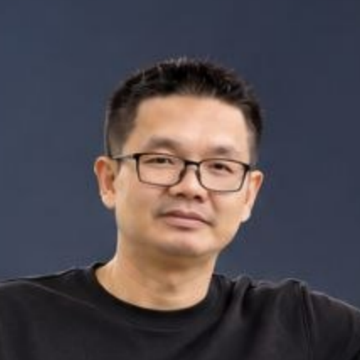
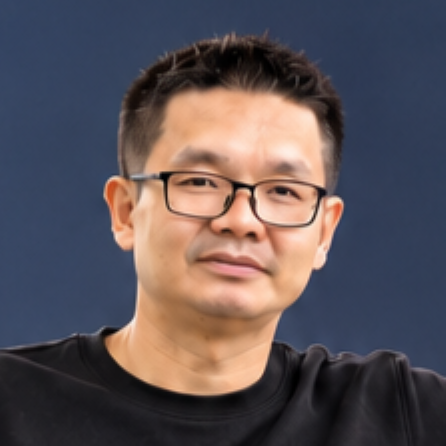
feat: update admin photo & streamline discovery to YouTube only (v2.2.0 build 104)

Changed region(s): [[0.1528, 0.0611, 1.0, 1.0], [0.7028, 0.8556, 0.825, 1.0], [0.0, 0.7639, 0.1528, 0.825]]

diff --git a/supabase/functions/social-food-discovery/index.ts b/supabase/functions/social-food-discovery/index.ts
@@ -1,6 +1,6 @@
 // Supabase Edge Function: social-food-discovery
-// Secure backend proxy for YouTube Data API v3, TikTok Display API, and Meta Graph API
-// Keeps all API credentials strictly on the server (Deno.env) with zero mobile-bundle exposure.
+// Secure backend proxy for YouTube Data API v3 (Official Google API)
+// Keeps YOUTUBE_API_KEY strictly server-side (Deno.env) with zero mobile-bundle exposure.
 
 declare const Deno: {
   serve: (handler: (req: Request) => Promise<Response> | Response) => void;
@@ -17,7 +17,7 @@ const corsHeaders = {
 
 interface SocialDiscoveryItem {
   id: string;
-  platform: 'youtube' | 'tiktok' | 'facebook';
+  platform: 'youtube' | 'web_wiki';
   titleKh: string;
   titleEn: string;
   titleZh?: string;
@@ -40,8 +40,8 @@ interface SocialDiscoveryItem {
 }
 
 interface PlatformCapabilityStatus {
-  platform: 'youtube' | 'tiktok' | 'facebook';
-  mode: 'live_api' | 'oembed_verified' | 'curated_fallback';
+  platform: 'youtube' | 'web_wiki';
+  mode: 'live_api' | 'oembed_verified';
   statusLabelEn: string;
   statusLabelKh: string;
   statusLabelZh: string;
@@ -77,7 +77,7 @@ Deno.serve(async (req: Request) => {
     const items: SocialDiscoveryItem[] = [];
     const statuses: Record<string, PlatformCapabilityStatus> = {};
 
-    // 1. YouTube Data API v3 (Official Google API)
+    // YouTube Data API v3 (Official Google API)
     const ytApiKey = Deno.env.get('YOUTUBE_API_KEY');
     if (platformFilter === 'all' || platformFilter === 'youtube') {
       if (ytApiKey && ytApiKey.trim().length > 10) {
@@ -143,147 +143,6 @@ Deno.serve(async (req: Request) => {
           explanationEn: 'No server-side YOUTUBE_API_KEY secret configured. Client uses official YouTube oEmbed.',
           explanationKh: 'មិនទាន់កំណត់ YOUTUBE_API_KEY លើ Server ទេ។ ប្រើប្រាស់ YouTube oEmbed ផ្លូវការ។',
           explanationZh: '服务器端尚未配置 YOUTUBE_API_KEY，客户端将使用官方 YouTube oEmbed 接口。',
-          itemCount: 0,
-        };
-      }
-    }
-
-    // 2. TikTok Display API / oEmbed
-    const tiktokToken = Deno.env.get('TIKTOK_ACCESS_TOKEN');
-    if (platformFilter === 'all' || platformFilter === 'tiktok') {
-      let tiktokFetched = false;
-      if (tiktokToken && tiktokToken.trim().length > 10) {
-        try {
-          const res = await fetch('https://open.tiktokapis.com/v2/video/list/?fields=id,title,video_description,create_time,cover_image_url,share_url,embed_link', {
-            method: 'POST',
-            headers: {
-              'Authorization': `Bearer ${tiktokToken.trim()}`,
-              'Content-Type': 'application/json',
-            },
-            body: JSON.stringify({ max_count: 8 }),
-          });
-          if (res.ok) {
-            const data = await res.json();
-            const videos = data?.data?.videos || [];
-            for (const v of videos) {
-              if (!v?.share_url) continue;
-              items.push({
-                id: `tt-api-${v.id}`,
-                platform: 'tiktok',
-                titleKh: v.title || 'TikTok Khmer Food Review',
-                titleEn: v.title || 'TikTok Khmer Food Review',
-                descriptionKh: v.video_description || '',
-                descriptionEn: v.video_description || '',
-                thumbnailUrl: v.cover_image_url || '/foods/food-1.jpg',
-                sourceUrl: v.share_url,
-                sourceName: 'TikTok Creator',
-                publishedOrUpdatedAt: v.create_time ? new Date(v.create_time * 1000).toISOString().slice(0, 10) : new Date().toISOString().slice(0, 10),
-                isLiveFetched: true,
-                verificationBadgeEn: 'TikTok Display API (Authorized)',
-                verificationBadgeKh: 'ទាញផ្ទាល់ពី TikTok Display API',
-                verificationBadgeZh: 'TikTok Display API 授权连接',
-                categorySlug: 'street_food',
-                provinceKh: 'រាជធានីភ្នំពេញ',
-                provinceEn: 'Phnom Penh',
-                relevanceScore: 95,
-              });
-            }
-            tiktokFetched = true;
-            statuses.tiktok = {
-              platform: 'tiktok',
-              mode: 'live_api',
-              statusLabelEn: 'TikTok Display API (Authorized)',
-              statusLabelKh: 'តភ្ជាប់ផ្ទាល់ជាមួយ TikTok Display API',
-              statusLabelZh: 'TikTok Display API 已授权',
-              explanationEn: 'Retrieved creator videos via official approved TikTok Display API.',
-              explanationKh: 'បានទាញយកវីដេអូពី TikTok Display API ផ្លូវការ។',
-              explanationZh: '通过官方批准的 TikTok Display API 获取创作者视频。',
-              itemCount: videos.length,
-            };
-          }
-        } catch {
-          // fallback to oembed status
-        }
-      }
-
-      if (!tiktokFetched) {
-        statuses.tiktok = {
-          platform: 'tiktok',
-          mode: 'oembed_verified',
-          statusLabelEn: 'TikTok oEmbed Verified Mode',
-          statusLabelKh: 'ផ្ទៀងផ្ទាត់តាម TikTok oEmbed',
-          statusLabelZh: 'TikTok oEmbed 官方验证模式',
-          explanationEn: 'TikTok Display API token not configured or awaiting enterprise review. Verified via official TikTok oEmbed.',
-          explanationKh: 'មិនទាន់មាន TikTok API Token។ ផ្ទៀងផ្ទាត់តាម TikTok oEmbed ផ្លូវការ។',
-          explanationZh: 'TikTok Display API 令牌未配置或等待企业级审核。采用官方 TikTok oEmbed 验证。',
-          itemCount: 0,
-        };
-      }
-    }
-
-    // 3. Meta Graph API (Facebook)
-    const metaToken = Deno.env.get('META_GRAPH_ACCESS_TOKEN');
-    const fbPageId = Deno.env.get('FACEBOOK_PAGE_ID') || 'me';
-    if (platformFilter === 'all' || platformFilter === 'facebook') {
-      let fbFetched = false;
-      if (metaToken && metaToken.trim().length > 10) {
-        try {
-          const res = await fetch(
-            `https://graph.facebook.com/v19.0/${encodeURIComponent(fbPageId)}/videos?fields=id,title,description,created_time,permalink_url,picture&access_token=${encodeURIComponent(metaToken.trim())}`
-          );
-          if (res.ok) {
-            const data = await res.json();
-            for (const v of data?.data || []) {
-              if (!v?.permalink_url && !v?.id) continue;
-              items.push({
-                id: `fb-api-${v.id}`,
-                platform: 'facebook',
-                titleKh: v.title || 'Facebook Cambodian Food Post',
-                titleEn: v.title || 'Facebook Cambodian Food Post',
-                descriptionKh: v.description || '',
-                descriptionEn: v.description || '',
-                thumbnailUrl: v.picture || '/foods/food-1.jpg',
-                sourceUrl: v.permalink_url || `https://www.facebook.com/${v.id}`,
-                sourceName: 'Facebook Page',
-                publishedOrUpdatedAt: (v.created_time || '').slice(0, 10) || new Date().toISOString().slice(0, 10),
-                isLiveFetched: true,
-                verificationBadgeEn: 'Meta Graph API v19.0 (Authorized)',
-                verificationBadgeKh: 'ទាញផ្ទាល់ពី Meta Graph API',
-                verificationBadgeZh: 'Meta Graph API v19.0 已授权',
-                categorySlug: 'famous_dish',
-                provinceKh: 'រាជធានីភ្នំពេញ',
-                provinceEn: 'Phnom Penh',
-                relevanceScore: 92,
-              });
-            }
-            fbFetched = true;
-            statuses.facebook = {
-              platform: 'facebook',
-              mode: 'live_api',
-              statusLabelEn: 'Meta Graph API (Authorized)',
-              statusLabelKh: 'តភ្ជាប់ផ្ទាល់ជាមួយ Meta Graph API',
-              statusLabelZh: 'Meta Graph API 实时连接',
-              explanationEn: 'Retrieved videos via authorized Meta Graph API v19.0.',
-              explanationKh: 'បានទាញយកវីដេអូពី Meta Graph API v19.0។',
-              explanationZh: '通过已授权的 Meta Graph API v19.0 获取内容。',
-              itemCount: items.filter((i) => i.platform === 'facebook').length,
-            };
-          }
-        } catch {
-          // fallback
-        }
-      }
-
-      if (!fbFetched) {
-        statuses.facebook = {
-          platform: 'facebook',
-          mode: 'curated_fallback',
-          statusLabelEn: 'Curated Verified Links (Meta Graph API Restricted)',
-          statusLabelKh: 'តំណភ្ជាប់ផ្ទៀងផ្ទាត់ (Meta បិទការស្វែងរកសាធារណៈ)',
-          statusLabelZh: '精选已验证链接（Meta 限制公开搜索）',
-          explanationEn: 'Meta Graph API restricts public search without Page Token permissions. Curated Cambodian food review links with verified dates are used.',
-          explanationKh: 'Meta Graph API មិនអនុញ្ញាតឱ្យស្វែងរកសាធារណៈដោយគ្មាន Page Token ទេ។ ប្រើប្រាស់តំណភ្ជាប់ដែលបានផ្ទៀងផ្ទាត់។',
-          explanationZh: 'Meta Graph API 限制未配置 Page Token 的公开搜索。使用已核实日期的精选探店链接。',
           itemCount: 0,
         };
       }

diff --git a/src/components/TrendingSocialModal.tsx b/src/components/TrendingSocialModal.tsx
@@ -377,7 +377,7 @@ export const TrendingSocialModal: React.FC = () => {
                   {tr(language, 'ម្ហូបខ្មែរកំពុងពេញនិយមលើអនឡាញ', 'Trending Khmer Food Discovery', '热门高棉美食在线发现')}
                 </h3>
                 <span className="px-2 py-0.5 rounded-full bg-rose-500 text-white text-[9px] font-bold shadow-xs">
-                  YouTube · TikTok · FB · Wiki
+                  YouTube · Wikipedia
                 </span>
               </div>
               <p className="text-[11px] text-pink-200 font-khmer truncate">
@@ -447,7 +447,7 @@ export const TrendingSocialModal: React.FC = () => {
             className="flex items-center gap-1.5 px-2.5 py-1 rounded-xl bg-slate-800 hover:bg-slate-700 text-emerald-300 font-bold border border-slate-700 cursor-pointer"
           >
             <Info className="w-3.5 h-3.5 shrink-0" />
-            <span>{tr(language, 'ស្ថានភាព API តាមវេទិកា (៤)', 'Platform API Status (4)', '各平台 API 状态 (4)')}</span>
+            <span>{tr(language, 'ស្ថានភាព API តាមវេទិកា (២)', 'Platform API Status (2)', '各平台 API 状态 (2)')}</span>
             <ChevronDown className={`w-3.5 h-3.5 transition-transform ${showStatusPanel ? 'rotate-180' : ''}`} />
           </button>
 
@@ -518,7 +518,7 @@ export const TrendingSocialModal: React.FC = () => {
                 required
                 value={customUrlInput}
                 onChange={(e) => setCustomUrlInput(e.target.value)}
-                placeholder="https://www.youtube.com/watch?v=... or https://www.tiktok.com/..."
+                placeholder="https://www.youtube.com/watch?v=..."
                 className="flex-1 px-3 py-1.5 rounded-xl bg-slate-800 border border-slate-700 text-xs text-white"
               />
               <button
@@ -730,7 +730,7 @@ export const TrendingSocialModal: React.FC = () => {
                       </div>
 
                       {/* Center Play Overlay for Video Platforms */}
-                      {(item.platform === 'youtube' || item.platform === 'tiktok' || item.platform === 'facebook') && (
+                      {item.platform === 'youtube' && (
                         <div className="absolute inset-0 flex items-center justify-center pointer-events-none">
                           <div className="w-11 h-11 rounded-full bg-red-600/90 group-hover:bg-red-600 text-white flex items-center justify-center shadow-lg border-2 border-white/80 transition transform group-hover:scale-110">
                             <Play className="w-5 h-5 fill-current ml-0.5" />
@@ -810,14 +810,14 @@ export const TrendingSocialModal: React.FC = () => {
                         type="button"
                         onClick={() => handlePlayOrOpenItem(item)}
                         className={`py-1.5 px-2 rounded-xl font-bold text-[10px] flex items-center justify-center gap-1 transition cursor-pointer ${
-                          item.platform === 'youtube' || item.platform === 'tiktok' || item.platform === 'facebook'
+                          item.platform === 'youtube'
                             ? isPlayingInline
                               ? 'bg-slate-700 text-white'
                               : 'bg-red-600 hover:bg-red-700 text-white shadow-xs'
                             : 'bg-emerald-50 hover:bg-emerald-100 dark:bg-emerald-950/50 text-[#064E3B] dark:text-emerald-300'
                         }`}
                       >
-                        {item.platform === 'youtube' || item.platform === 'tiktok' || item.platform === 'facebook' ? (
+                        {item.platform === 'youtube' ? (
                           isPlayingInline ? (
                             <>
                               <X className="w-3 h-3" />

diff --git a/src/services/onlineFoodDiscoveryService.ts b/src/services/onlineFoodDiscoveryService.ts
@@ -2,12 +2,12 @@ import { FoodItem, TrendingFoodCategorySlug, TrendingFoodItem } from '../types';
 import { initialFoods } from '../data/seedData';
 import { initialTrendingFoods } from '../data/seedTrendingFoods';
 
-export const ONLINE_DISCOVERY_CACHE_KEY = 'kft_v3_online_discovery_cache';
+export const ONLINE_DISCOVERY_CACHE_KEY = 'kft_v4_online_discovery_cache';
 export const ONLINE_DISCOVERY_CUSTOM_URLS_KEY = 'kft_v3_online_discovery_custom_urls';
 export const ONLINE_DISCOVERY_TTL_MS = 24 * 60 * 60 * 1000; // 24 hours
 export const MANUAL_REFRESH_COOLDOWN_MS = 5 * 60 * 1000; // 5 minutes
 
-export type DiscoveryPlatformId = 'youtube' | 'tiktok' | 'facebook' | 'web_wiki';
+export type DiscoveryPlatformId = 'youtube' | 'web_wiki';
 
 export interface PlatformApiStatus {
   platform: DiscoveryPlatformId;

diff --git a/src/components/AdminLoginModal.tsx b/src/components/AdminLoginModal.tsx
@@ -365,7 +365,7 @@ export const AdminLoginModal: React.FC = () => {
                     <img
                       src="/images/admin_profile.png"
                       alt="Chea Savuth Admin"
-                      className="w-36 h-36 rounded-3xl object-cover border-4 border-emerald-400 shadow-2xl ring-4 ring-emerald-500/30"
+                      className="w-36 h-36 sm:w-44 sm:h-44 rounded-full object-cover border-4 border-emerald-400 shadow-2xl ring-4 ring-emerald-500/30"
                     />
                     <div className="absolute -bottom-1 -right-1 p-1.5 bg-emerald-600 rounded-full border-2 border-white text-white shadow-md">
                       <ShieldCheck className="w-5 h-5 text-white" />

diff --git a/src/components/ProfileView.tsx b/src/components/ProfileView.tsx
@@ -191,7 +191,7 @@ export const ProfileView: React.FC = () => {
                 <img 
                   src={currentUser.avatar} 
                   alt={currentUser.name} 
-                  className="w-16 h-16 sm:w-20 sm:h-20 rounded-2xl object-cover border-2 border-[#059669] shadow-md ring-4 ring-emerald-500/20 shrink-0"
+                  className={`w-16 h-16 sm:w-22 sm:h-22 ${currentUser.role === 'admin' ? 'rounded-full ring-4 ring-emerald-400/40' : 'rounded-2xl ring-4 ring-emerald-500/20'} object-cover border-2 border-[#059669] shadow-md shrink-0`}
                 />
                 <div className="flex-1 min-w-0">
                   {/* Large Prominent Account Name & Quick Edit */}

diff --git a/src/components/AdminDashboard.tsx b/src/components/AdminDashboard.tsx
@@ -385,7 +385,7 @@ export const AdminDashboard: React.FC = () => {
               <img 
                 src={currentUser?.avatar || '/images/admin_profile.png'} 
                 alt="Chea Savuth Admin" 
-                className="w-16 h-16 rounded-2xl object-cover border-2 border-emerald-300 shadow-md ring-2 ring-emerald-400/40" 
+                className="w-16 h-16 sm:w-20 sm:h-20 rounded-full object-cover border-2 border-emerald-300 shadow-md ring-2 ring-emerald-400/40" 
               />
               <div className="absolute -bottom-1 -right-1 p-1 bg-emerald-600 rounded-full border border-white text-white shadow-xs">
                 <Shield className="w-3.5 h-3.5 text-white" />

diff --git a/src/components/home/HomeGreetingSearch.tsx b/src/components/home/HomeGreetingSearch.tsx
@@ -53,7 +53,7 @@ export const HomeGreetingSearch: React.FC<Props> = ({
             <img
               src={currentUser.avatar}
               alt={currentUser.name}
-              className="w-11 h-11 rounded-xl object-cover border-2 border-amber-300/80 shadow-xs shrink-0 bg-white"
+              className={`w-12 h-12 sm:w-14 sm:h-14 ${currentUser.role === 'admin' ? 'rounded-full ring-2 ring-emerald-300' : 'rounded-2xl'} object-cover border-2 border-amber-300/80 shadow-xs shrink-0 bg-white`}
             />
             <div className="min-w-0 flex-1">
               <div className="flex items-center gap-1.5 flex-wrap">

diff --git a/src/types/index.ts b/src/types/index.ts
@@ -1,6 +1,6 @@
 export const APP_VERSION = 'v2.2.0';
 export const APP_VERSION_NAME = '2.2.0';
-export const APP_BUILD_CODE = 103;
+export const APP_BUILD_CODE = 104;
 export const APP_RELEASE_DATE = '2026-10-26';
 
 export interface GoogleMapsPlaceMetadata {
